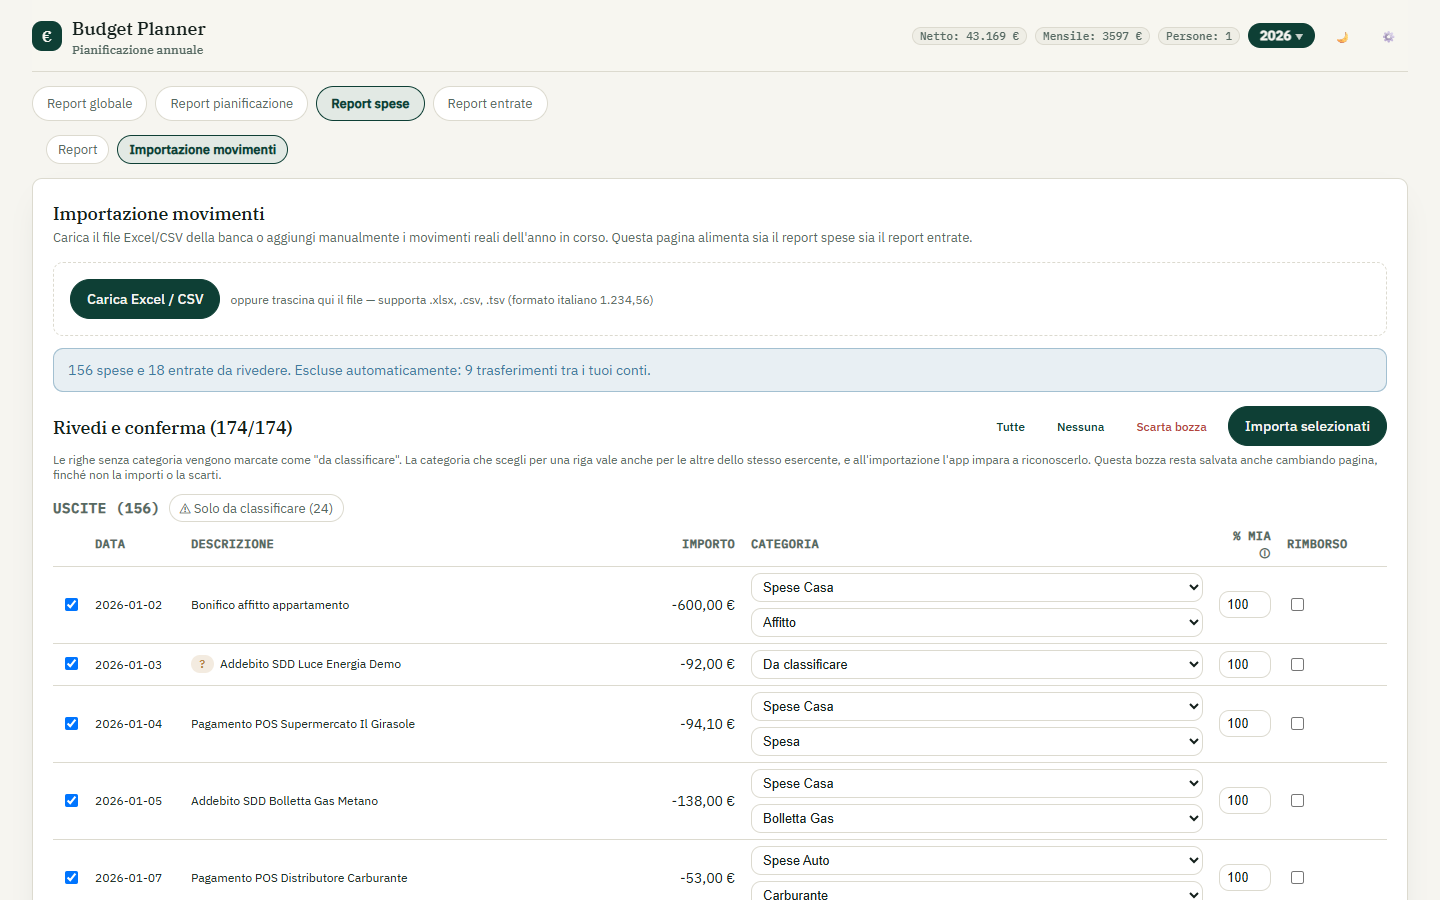
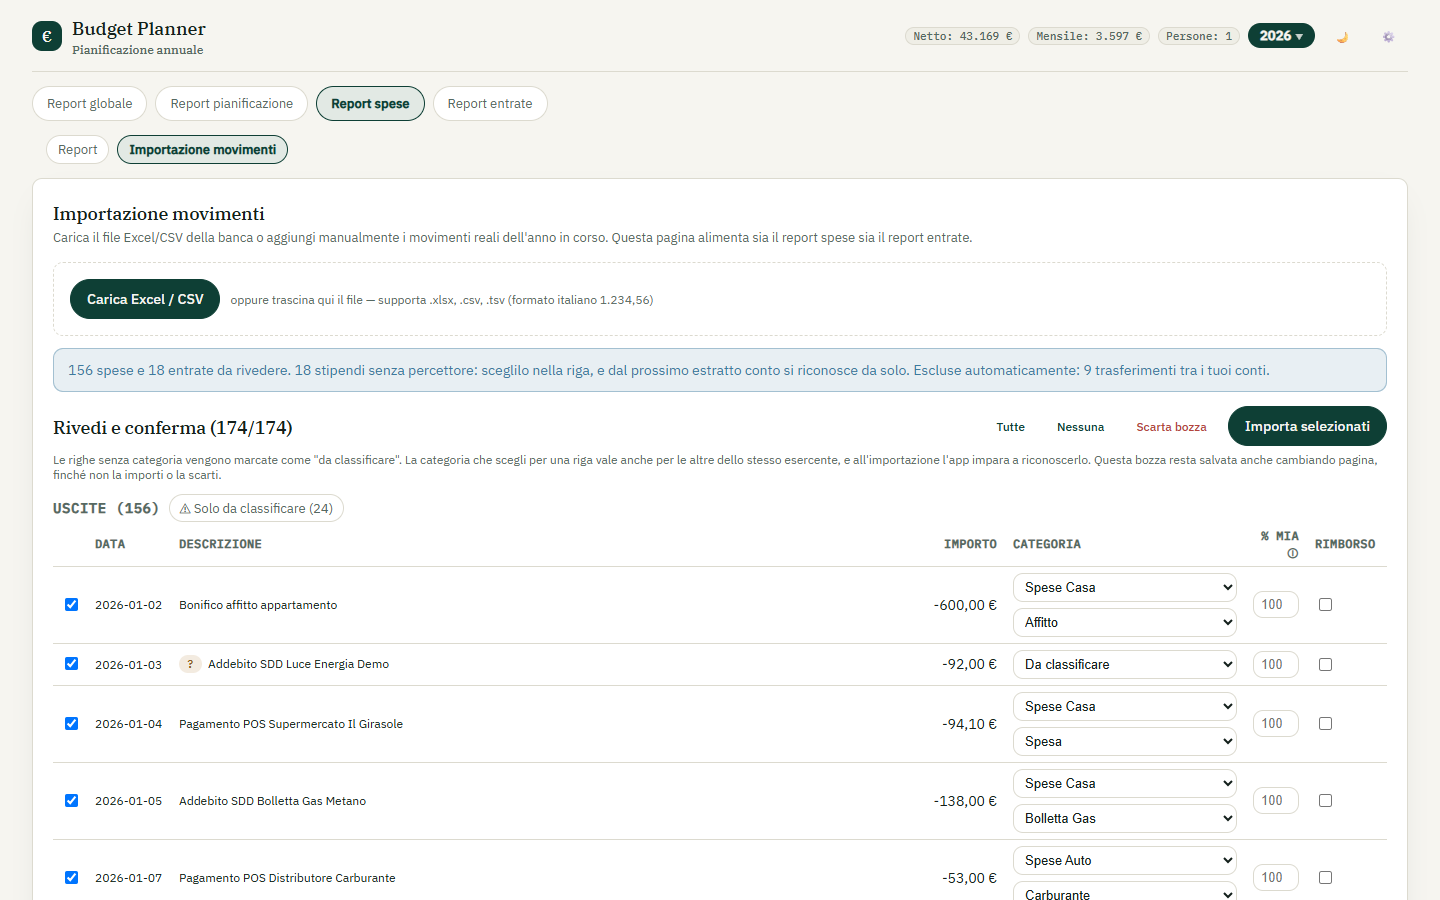
Aggiorna la pagina Budget Planner Annuale

diff --git a/software/budget-planner.html b/software/budget-planner.html
@@ -93,7 +93,7 @@
     <div class="section-inner">
       <h2>Il problema</h2>
       <div class="prose">
-        <p>I fogli di calcolo per il budget familiare diventano ingestibili da un anno all'altro: le categorie cambiano, i movimenti vanno classificati a mano, le regole fiscali variano.</p>
+        <p>I fogli di calcolo per il budget familiare diventano ingestibili da un anno all'altro: le categorie cambiano, i movimenti vanno classificati a mano, le regole fiscali variano. Con più redditi in famiglia, la divisione delle spese complica ulteriormente il quadro.</p>
       </div>
     </div>
   </section>
@@ -111,21 +111,21 @@
       <div class="hub-passo">
         <h3 class="subhead">2. Struttura delle categorie</h3>
         <div class="prose">
-          <p>Si definiscono categorie e sottovoci di spesa. In questa fase non si inseriscono importi.</p>
+          <p>Si definiscono categorie e sottovoci di spesa e, con più redditi, a chi è attribuita ciascuna. In questa fase non si inseriscono importi.</p>
         </div>
         <figure class="shot hub-shot"><a href="/assets/software/budget-planner/02-struttura.png"><img src="/assets/software/budget-planner/02-struttura.png" alt="Albero delle categorie" width="1440" height="900" loading="lazy"></a></figure>
       </div>
       <div class="hub-passo">
         <h3 class="subhead">3. Storico e pianificazione</h3>
         <div class="prose">
-          <p>Nel passo «Storico» si registrano le spese dell'anno precedente, per categoria e sottovoce: con un comando diventano la base del pianificato. Nel passo «Pianificazione» si ritocca poi ogni voce, ragionando in euro all'anno o al mese; il report mostra netto, allocato, residuo e ripartizione fra spese fisse, variabili e risparmi.</p>
+          <p>Nel passo «Storico» si registrano le spese dell'anno precedente, per categoria e sottovoce, a mano o caricando una bolletta o una fattura in PDF, da cui l'app legge importo, data e fornitore: con un comando diventano la base del pianificato. La lettura dei PDF è best-effort: quelli scansionati, cioè in forma di immagine, non sono leggibili e richiedono l'inserimento manuale. Nel passo «Pianificazione» si ritocca poi ogni voce, ragionando in euro all'anno o al mese; il report mostra netto, allocato, residuo e ripartizione fra spese fisse, variabili e risparmi.</p>
         </div>
         <figure class="shot hub-shot"><a href="/assets/software/budget-planner/03-pianificazione.png"><img src="/assets/software/budget-planner/03-pianificazione.png" alt="Pianificazione del budget" width="1440" height="900" loading="lazy"></a></figure>
       </div>
       <div class="hub-passo">
         <h3 class="subhead">4. Importazione dei movimenti</h3>
         <div class="prose">
-          <p>Si importa l'estratto conto da Excel, CSV o PDF, oppure si inseriscono i movimenti a mano. La lettura dei PDF è best-effort: quelli scansionati, cioè in forma di immagine, non sono leggibili e richiedono l'inserimento manuale. Il file non entra subito nei conti: l'app prepara una bozza da rivedere, in cui ogni riga si può correggere o escludere prima di confermare l'importazione. Classifica le spese con le regole dell'utente, scritte a mano o apprese dalle sue correzioni, e scarta i giroconti fra conti propri. Nella bozza la categoria scelta per una riga vale anche per le altre dello stesso esercente, e gli accrediti dello stipendio si assegnano al percettore.</p>
+          <p>Si importa l'estratto conto da Excel o CSV, oppure si inseriscono i movimenti a mano. Il file non entra subito nei conti: l'app prepara una bozza da rivedere, in cui ogni riga si può correggere o escludere prima di confermare l'importazione. Classifica le spese con le regole dell'utente, scritte a mano o apprese dalle sue correzioni, e scarta i giroconti fra conti propri. Nella bozza la categoria scelta per una riga vale anche per le altre dello stesso esercente. Gli stipendi vanno da soli al percettore, riconosciuto dal nome del datore di lavoro nella causale: l'app lo impara la prima volta che se ne attribuisce uno, e quelli rimasti senza percettore si attribuiscono anche dal «Report entrate».</p>
         </div>
         <figure class="shot hub-shot"><a href="/assets/software/budget-planner/04-importazione.png"><img src="/assets/software/budget-planner/04-importazione.png" alt="Importazione dei movimenti" width="1440" height="900" loading="lazy"></a></figure>
       </div>
@@ -139,7 +139,7 @@
       <div class="hub-passo">
         <h3 class="subhead">6. Report globale</h3>
         <div class="prose">
-          <p>Netto previsto, pianificato, speso e incassato in un unico quadro, con il saldo dell'anno (entrate meno uscite), la proiezione di spesa a fine anno e gli alert, per esempio sulle spese ancora da classificare, che restano fuori dai totali. In fondo compaiono i suggerimenti per l'anno successivo, ricavati dallo scostamento fra pianificato e speso. Il report spese segnala budget superato e spese ricorrenti che saltano o cambiano importo.</p>
+          <p>Netto previsto, pianificato, speso e incassato in un unico quadro, con il saldo dell'anno (entrate meno uscite), la proiezione di spesa a fine anno e gli alert, per esempio sulle spese ancora da classificare, che contano nel totale ma restano fuori dal confronto per categoria. In fondo compaiono i suggerimenti per l'anno successivo, ricavati dallo scostamento fra pianificato e speso. Il report spese segnala budget superato e spese ricorrenti che saltano o cambiano importo.</p>
         </div>
         <figure class="shot hub-shot"><a href="/assets/software/budget-planner/06-report-globale.png"><img src="/assets/software/budget-planner/06-report-globale.png" alt="Report globale" width="1440" height="900" loading="lazy"></a></figure>
       </div>
@@ -189,7 +189,7 @@
     <div class="section-inner">
       <h2>Stato e prossimi sviluppi</h2>
       <div class="prose">
-        <p>L'app desktop per Windows è in uso personale e si aggiorna da sola. Una versione mobile local-first, sullo stesso core, è in sviluppo: il core è stato separato dal server e il guscio Capacitor con SQLite WASM è stato avviato. Limiti noti: l'importazione dei PDF funziona al meglio possibile e non legge i documenti scansionati; la pianificazione riguarda un anno alla volta; il fisco è modellato solo per l'Italia.</p>
+        <p>L'app desktop per Windows è in uso personale e si aggiorna da sola. Una versione mobile local-first, sullo stesso core, è in sviluppo: il core è stato separato dal server e il guscio Capacitor con SQLite WASM è stato avviato. Limiti noti: la lettura delle bollette PDF funziona al meglio possibile e non legge i documenti scansionati; la pianificazione riguarda un anno alla volta; il fisco è modellato solo per l'Italia.</p>
       </div>
     </div>
   </section>
